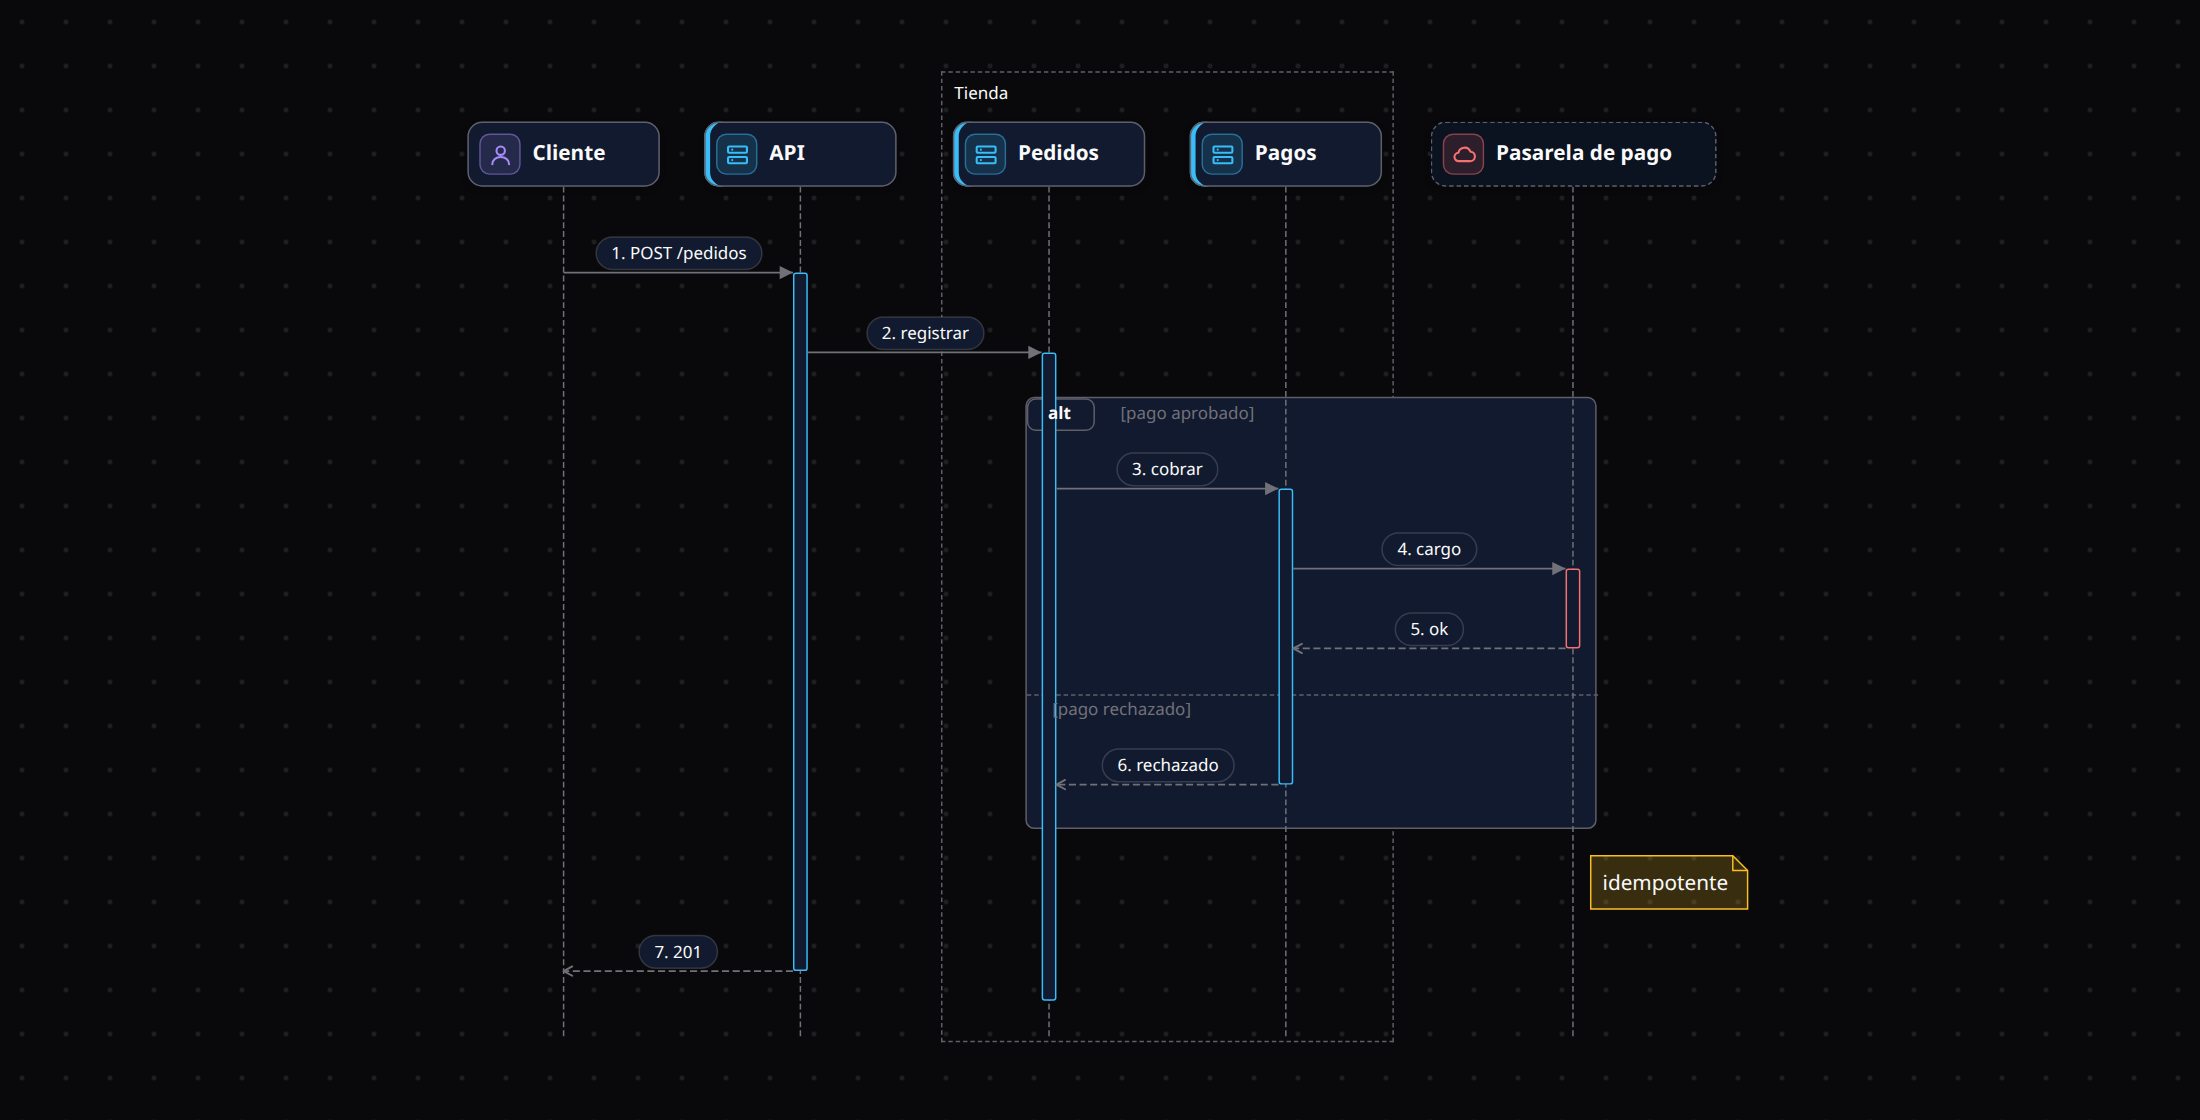
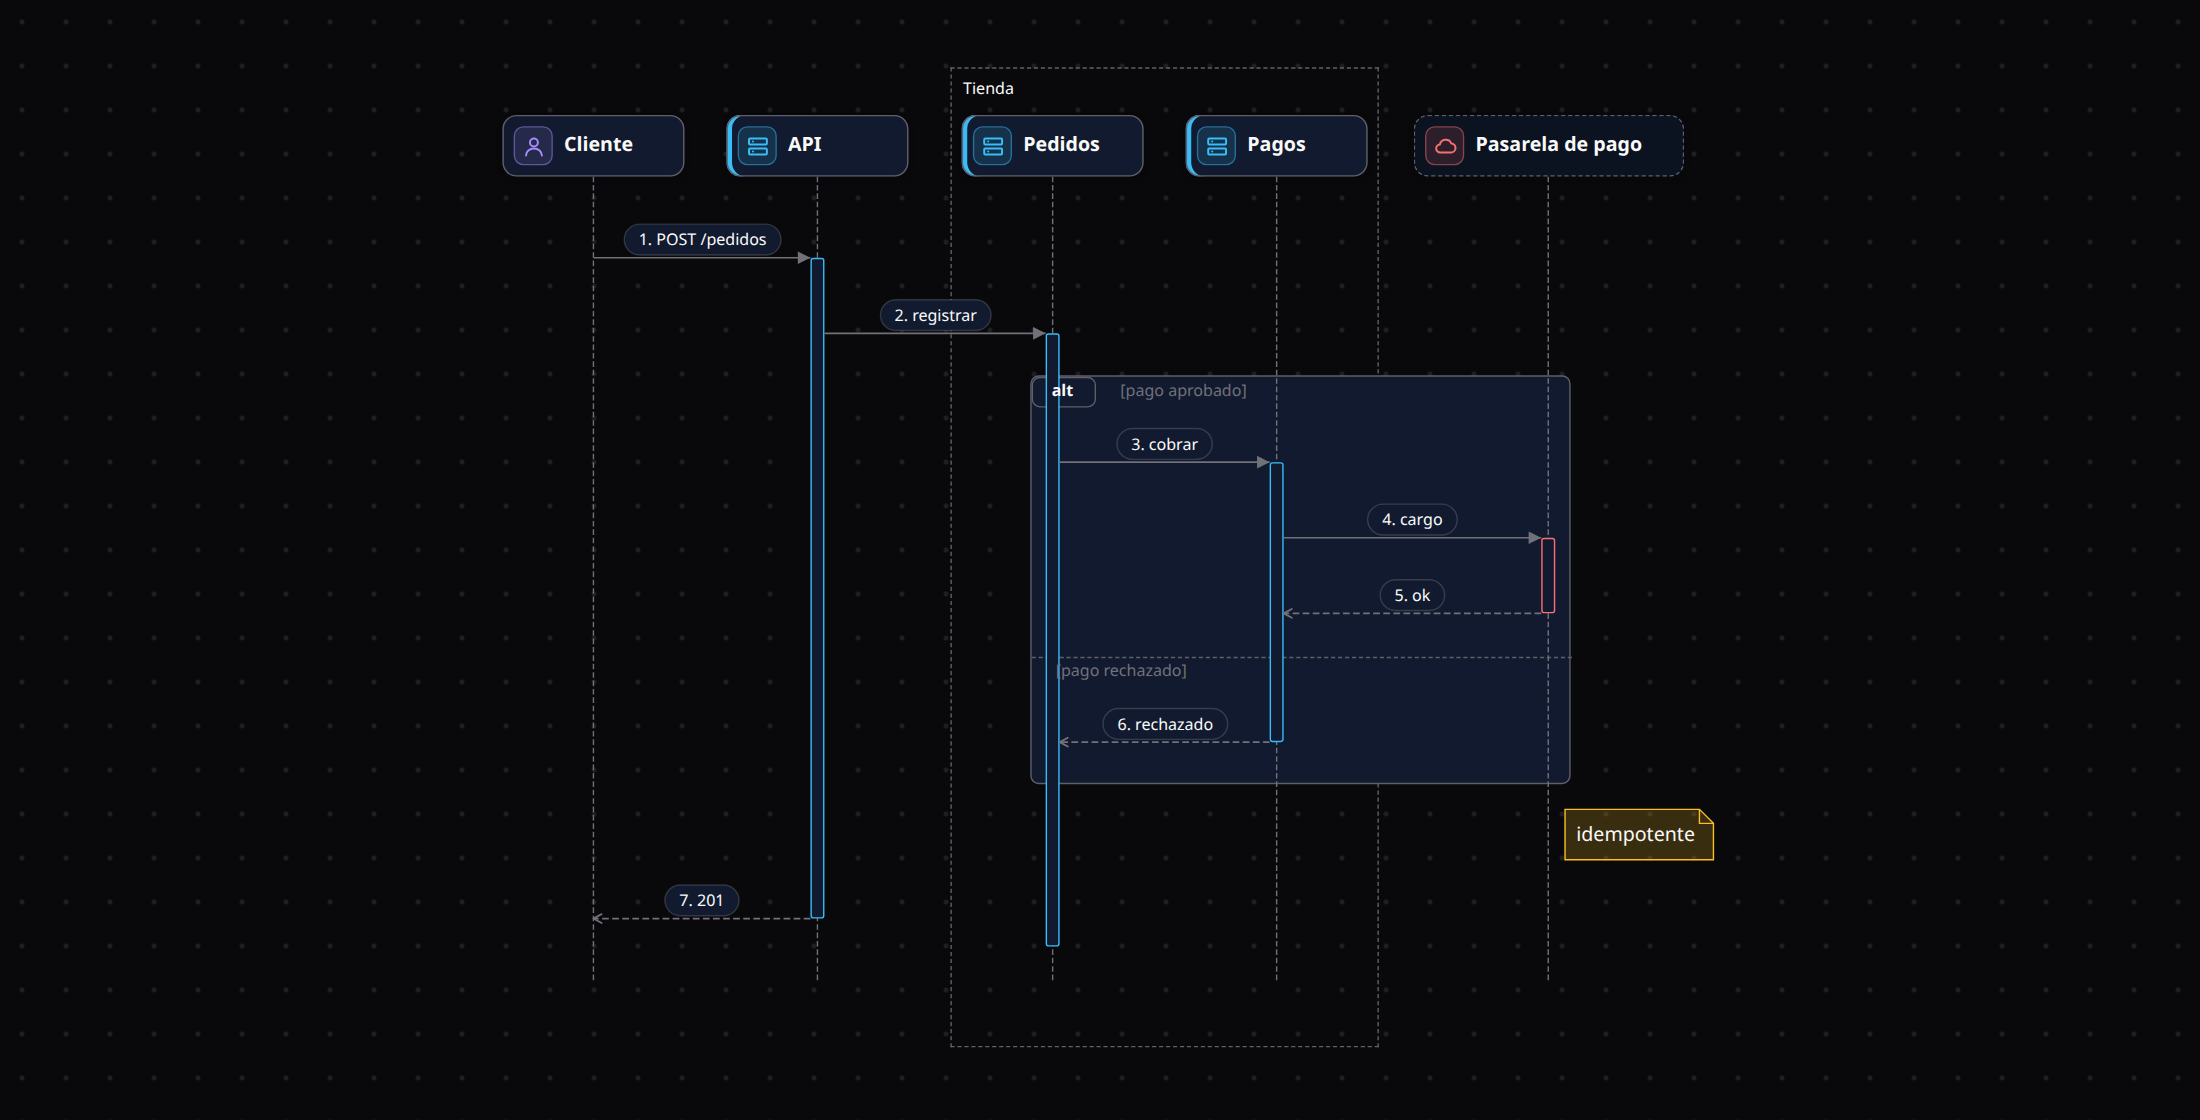
Secuencia: cabecera espejo al pie de cada Lifeline

Changed region(s): [[0.1855, 0.0625, 0.8036, 0.9062], [0.6491, 0.5625, 0.68, 0.5938]]

diff --git a/packages/layout/src/secuencia.ts b/packages/layout/src/secuencia.ts
@@ -86,6 +86,8 @@ export interface CajaDeGrupoColocada {
 export interface GeometriaSecuencia {
   kind: 'secuencia';
   nodes: Record<string, CajaDeNodo>;
+  /** Cabecera espejo al pie de cada Lifeline no destruida (misma caja y Slots que en `nodes`, desplazada a `y2` de su linea). */
+  footers?: Record<string, CajaDeNodo>;
   /** Linea vertical de cada Lifeline, por id de Nodo: `x` central, desde `y1` (bajo la cabecera) hasta `y2`. */
   lifelines: Record<string, { x: number; y1: number; y2: number; /** Cortada en un `destroy`: `y2` es la `y` de ese Mensaje y se pinta el marcador `end`. */ destroyed?: true }>;
   activations: CajaDeActivacion[];
@@ -442,6 +444,7 @@ export function layoutSecuencia(vista: VistaResuelta, metricas: Metricas | Tabla
   for (const nota of notas) derecha = Math.max(derecha, nota.x + nota.width);
 
   const nodes: Record<string, CajaDeNodo> = {};
+  const footers: Record<string, CajaDeNodo> = {};
   const lineas: GeometriaSecuencia['lifelines'] = {};
   lifelines.forEach((nodo, i) => {
     const { width } = medidas[i]!;
@@ -449,10 +452,11 @@ export function layoutSecuencia(vista: VistaResuelta, metricas: Metricas | Tabla
     const m = metricasDeHoja(tabla, nodo);
     nodes[nodo.id] = { ...caja, slots: colocarEnCaja(m, contenidoDeNodo(nodo, m), width).slots };
     lineas[nodo.id] = { x: xDeLifeline(nodo.id), y1: caja.y + altoDeCabecera, y2: destruccion(nodo.id) < 0 ? yFinal + RELLENO_FINAL : yFinalDe(nodo.id), ...(destruccion(nodo.id) >= 0 && { destroyed: true as const }) };
+    if (destruccion(nodo.id) < 0) footers[nodo.id] = { ...nodes[nodo.id]!, y: yFinal + RELLENO_FINAL };
     derecha = Math.max(derecha, caja.x + width);
   });
   // Cada box rodea las cabeceras de sus Lifelines hasta el pie de sus lineas (los exteriores sobresalen mas).
-  const pie = yFinal + RELLENO_FINAL;
+  const pie = yFinal + RELLENO_FINAL + (lifelines.length > 0 ? altoDeCabecera : 0);
   const cajasDeGrupo: CajaDeGrupoColocada[] = grupos.map((g) => {
     const cajas = g.lifelines.map((id) => nodes[id]!);
     const titulo = titulos.get(g.id)!;
@@ -467,6 +471,7 @@ export function layoutSecuencia(vista: VistaResuelta, metricas: Metricas | Tabla
   return {
     kind: 'secuencia',
     nodes,
+    footers,
     lifelines: lineas,
     activations: cajasDeActivacion,
     messages: rutas,

diff --git a/packages/render/src/secuencia.ts b/packages/render/src/secuencia.ts
@@ -123,6 +123,10 @@ export function construirEscenaDeSecuencia(entrada: EntradaDeEscena & { geometry
   const colorDeGuarda = String(base.capas[base.capas.length - 1]?.props['color'] ?? estilo.borde);
   const textosDeFragmento = geometry.fragments.flatMap((marco) => textosDeFragmentoSvg(marco, estilo, colorDeGuarda, visibility, idDeInteraccion));
 
+  // Cabecera espejo al pie de cada Lifeline: el mismo Nodo, en la caja de `footers`.
+  const cajasDePie = new Map(Object.entries(geometry.footers ?? {}));
+  const pies = raices.flatMap((nodo): Elemento[] => (cajasDePie.has(nodo.id) ? [cajaDeNodo(nodo, { ...contexto, cajas: cajasDePie })] : []));
+
   return marcoDeEscena(entrada, estilo, [
     { tag: 'div', attrs: { class: 'rd-capa rd-grupos', 'data-capa': 'grupos' }, hijos: grupos },
     { tag: 'div', attrs: { class: 'rd-capa rd-fragmentos', 'data-capa': 'fragmentos' }, hijos: fragmentos },
@@ -131,7 +135,7 @@ export function construirEscenaDeSecuencia(entrada: EntradaDeEscena & { geometry
     capaSvg('mensajes', geometry, [...trazos, ...etiquetas]),
     capaSvg('guardas', geometry, textosDeFragmento),
     capaSvg('notas', geometry, geometry.notes.map((nota) => notaSvg(nota, estilo, idDeInteraccion, visibility, entrada.estados))),
-    { tag: 'div', attrs: { class: 'rd-capa rd-nodos', 'data-capa': 'nodos' }, hijos: raices.map((nodo) => cajaDeNodo(nodo, contexto)) },
+    { tag: 'div', attrs: { class: 'rd-capa rd-nodos', 'data-capa': 'nodos' }, hijos: [...raices.map((nodo) => cajaDeNodo(nodo, contexto)), ...pies] },
   ]);
 }
 
